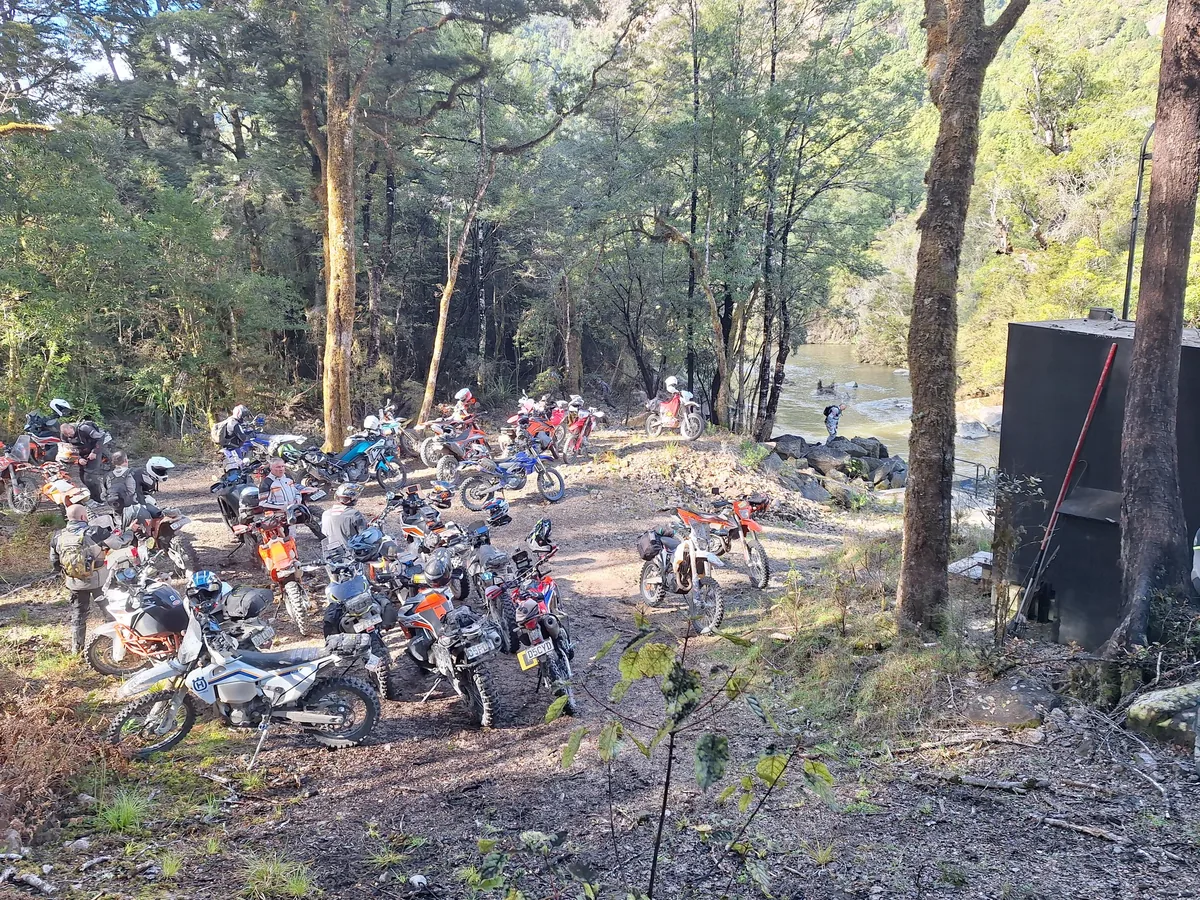
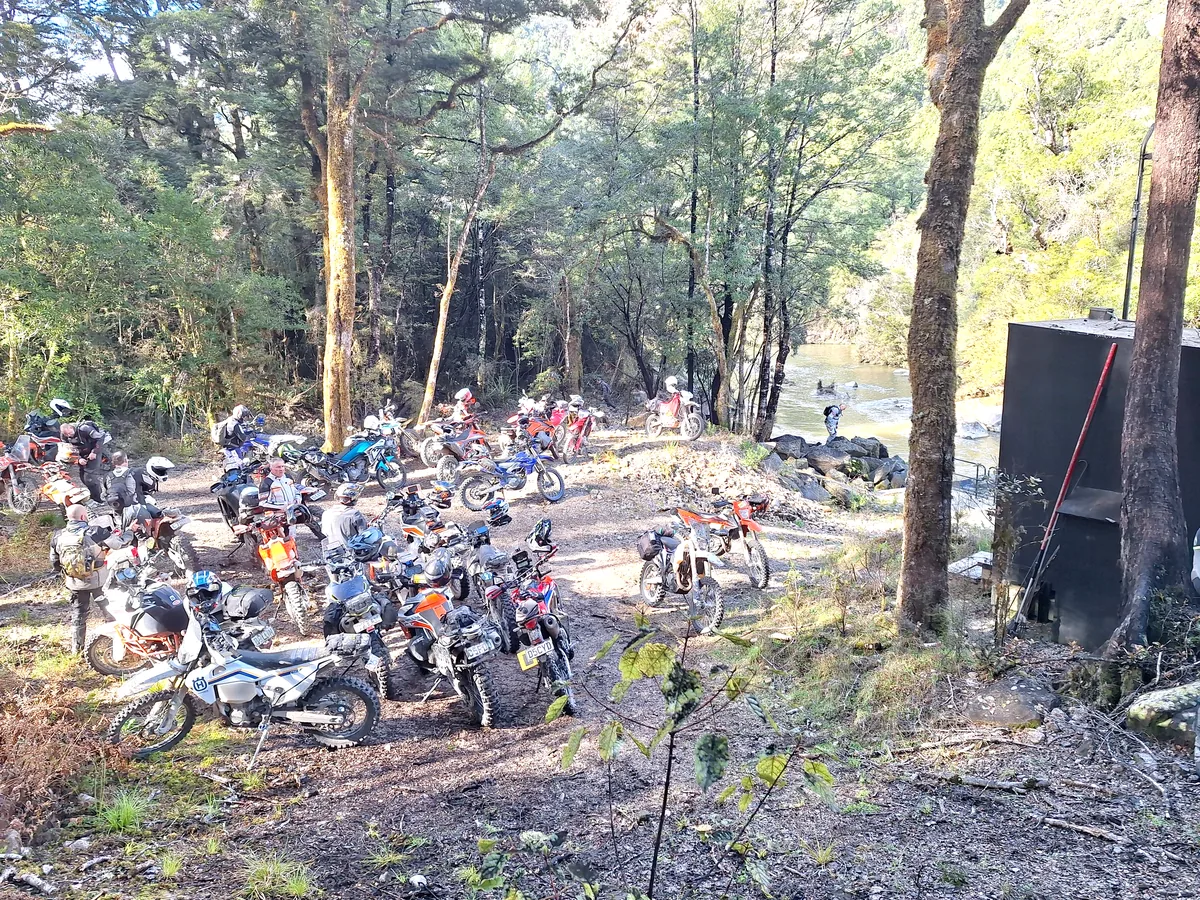
Design-review fixes: hero legibility, image recasting, focus states, CTA consistency

diff --git a/kohatu-netlify-deploy/index.html b/kohatu-netlify-deploy/index.html
@@ -58,7 +58,7 @@
       "eventStatus": "https://schema.org/EventScheduled",
       "eventAttendanceMode": "https://schema.org/OfflineEventAttendanceMode",
       "location": { "@type": "Place", "name": "French Pass, Marlborough Sounds", "address": { "@type": "PostalAddress", "addressCountry": "NZ" } },
-      "image": "img/sounds-like-1200.webp",
+      "image": "img/gallery-jetty-800.webp",
       "description": "Two days on private farm tracks and gravel across three large outer-Sounds farms, overnighting at the French Pass hall.",
       "organizer": { "@id": "#org" },
       "offers": { "@type": "Offer", "price": "295", "priceCurrency": "NZD", "availability": "https://schema.org/PreOrder", "url": "./#rides" }
@@ -162,7 +162,7 @@
   <div class="wrap">
     <b>Next up</b>
     <span>The Five Year Plan — Year 1 · Cape Reinga through Northland · August 2026</span>
-    <a href="#ride-list">Register interest &rarr;</a>
+    <a href="#ride-list">Join the ride list &rarr;</a>
   </div>
 </div>
 
@@ -198,7 +198,7 @@
           <p>Ride the length of New Zealand over five years, starting at Cape Reinga. Six days of Northland's off-road tracks, private land and scenic trails — with accommodation, dinners and a luggage van doing the heavy lifting.</p>
           <div class="event-foot">
             <span class="price">$2,990<small>per year</small></span>
-            <a class="btn btn-line" href="#ride-list">Join the list</a>
+            <a class="btn btn-line" href="#ride-list">Join the ride list</a>
           </div>
         </div>
       </article>
@@ -224,7 +224,7 @@
 
       <article class="event-card reveal" data-cat="multi">
         <div class="event-media">
-          <img src="img/sounds-like-800.webp" srcset="img/sounds-like-480.webp 480w, img/sounds-like-800.webp 800w, img/sounds-like-1200.webp 1200w" sizes="(max-width: 700px) 92vw, 380px" loading="lazy" width="800" height="450" alt="Still river reach flanked by native forest hills under a blue sky">
+          <img src="img/gallery-jetty-800.webp" srcset="img/gallery-jetty-480.webp 480w, img/gallery-jetty-800.webp 800w" sizes="(max-width: 700px) 92vw, 380px" loading="lazy" width="800" height="450" alt="Rider's view from a jetty over the water, snow-capped ranges beyond">
           <div class="flags">
             <span class="badge badge-soon">February 2027</span>
             <a class="badge" href="#grades"><span class="dot" style="background:var(--g3)"></span>Grade 3</a>
@@ -236,7 +236,7 @@
           <p>Private farm tracks across three big outer-Sounds stations including Te Kuta and Port Ligar. Overnight at the French Pass hall — dinner and breakfast put on by locals, with proceeds supporting the community.</p>
           <div class="event-foot">
             <span class="price">$295<small>hall stay + meals included</small></span>
-            <a class="btn btn-line" href="#ride-list">Join the list</a>
+            <a class="btn btn-line" href="#ride-list">Join the ride list</a>
           </div>
         </div>
       </article>
@@ -255,7 +255,7 @@
           <p>Adventure bikes ride both days, road bikes join a treasure hunt — then everyone rolls into Founders for vendors, food trucks and displays. Raising funds for Nelson Tasman Search &amp; Rescue.</p>
           <div class="event-foot">
             <span class="price">$45–$350<small>road / adventure entry</small></span>
-            <a class="btn btn-line" href="#ride-list">Join the list</a>
+            <a class="btn btn-line" href="#ride-list">Join the ride list</a>
           </div>
         </div>
       </article>
@@ -274,7 +274,7 @@
           <p>Adventure courses over parks, forestry and private land not normally open to riders, plus a Saturday poker run ending with brews, food trucks and static displays at Brewtown.</p>
           <div class="event-foot">
             <span class="price">$45–$350<small>road / adventure entry</small></span>
-            <a class="btn btn-line" href="#ride-list">Join the list</a>
+            <a class="btn btn-line" href="#ride-list">Join the ride list</a>
           </div>
         </div>
       </article>
@@ -293,7 +293,7 @@
           <p>Lake Matiri with a tractor. Anything Mechanical. Tempello. Rainey River. One-day adventures over farms and back roads you can't normally touch — GPX issued before every ride, sweeps and medical support on every one.</p>
           <div class="event-foot">
             <span class="price">From $100<small>per rider, per ride</small></span>
-            <a class="btn btn-line" href="#ride-list">Get ride alerts</a>
+            <a class="btn btn-line" href="#ride-list">Join the ride list</a>
           </div>
         </div>
       </article>
@@ -388,7 +388,7 @@
 <section id="trail-rides" class="why">
   <div class="wrap split">
     <div class="split-media reveal">
-      <img src="img/trail-rides-800.webp" srcset="img/trail-rides-480.webp 480w, img/trail-rides-800.webp 800w, img/trail-rides-1200.webp 1200w" sizes="(max-width: 860px) 92vw, 45vw" loading="lazy" width="800" height="533" alt="Rider catching air on a red Honda CRF over a grass mound">
+      <img src="img/gallery-gate-800.webp" srcset="img/gallery-gate-480.webp 480w, img/gallery-gate-800.webp 800w" sizes="(max-width: 860px) 92vw, 45vw" loading="lazy" width="800" height="600" alt="Rider on a KTM coming through a farm gate on a forest trail">
     </div>
     <div>
       <span class="kicker">No rego? No worries</span>
@@ -399,7 +399,7 @@
         <li><b>Marshals, recovery and first aid</b> on site all day</li>
         <li><b>$80 per rider</b> — pre-entry essential, numbers are limited</li>
       </ul>
-      <a class="btn btn-red" href="#ride-list">Register interest</a>
+      <a class="btn btn-red" href="#ride-list">Join the ride list</a>
     </div>
   </div>
 </section>
@@ -417,7 +417,7 @@
           <div class="price-card"><b>$10</b><span>Under 15</span></div>
           <div class="price-card"><b>$40</b><span>Family pass</span></div>
         </div>
-        <p style="color:var(--muted); font-size:.95rem">Open days 11am–4pm (check Facebook for dates) · Cash only at the gate · Groups of 6+ can book any day.</p>
+        <p style="color:var(--muted); font-size:.95rem">Open days 11am–4pm (check <a href="https://www.facebook.com/kohatumotorcyclecentre" style="color:var(--red)">Facebook</a> for dates) · Cash only at the gate · Groups of 6+ can book any day.</p>
       </div>
       <div class="split-media reveal">
         <img src="img/park-aerial-800.webp" srcset="img/park-aerial-480.webp 480w, img/park-aerial-800.webp 800w, img/park-aerial-1200.webp 1200w" sizes="(max-width: 860px) 92vw, 45vw" loading="lazy" width="800" height="450" alt="Aerial view of the Kohatu training ground with mowed trail loops beside pine forest">
@@ -459,8 +459,8 @@
       <a href="https://www.facebook.com/kohatumotorcyclecentre" aria-label="See more photos on Facebook"><img src="img/gallery-mud-480.webp" srcset="img/gallery-mud-480.webp 480w, img/gallery-mud-800.webp 800w" sizes="(max-width:700px) 46vw, 370px" loading="lazy" width="480" height="640" alt="Grinning rider covered head to toe in mud beside his adventure bike"></a>
       <a href="https://www.facebook.com/kohatumotorcyclecentre" aria-label="See more photos on Facebook"><img src="img/gallery-wheelie-480.webp" srcset="img/gallery-wheelie-480.webp 480w, img/gallery-wheelie-800.webp 800w" sizes="(max-width:700px) 46vw, 370px" loading="lazy" width="480" height="320" alt="Rider wheelying a red Honda across a daisy-covered paddock"></a>
       <a href="https://www.facebook.com/kohatumotorcyclecentre" aria-label="See more photos on Facebook"><img src="img/gallery-tractor-480.webp" srcset="img/gallery-tractor-480.webp 480w, img/gallery-tractor-752.webp 752w" sizes="(max-width:700px) 46vw, 370px" loading="lazy" width="480" height="651" alt="View from a bike being towed across a river behind a muddy tractor"></a>
-      <a href="https://www.facebook.com/kohatumotorcyclecentre" aria-label="See more photos on Facebook"><img src="img/gallery-gate-480.webp" srcset="img/gallery-gate-480.webp 480w, img/gallery-gate-800.webp 800w" sizes="(max-width:700px) 46vw, 370px" loading="lazy" width="480" height="360" alt="Rider on a KTM coming through a farm gate on a forest trail"></a>
-      <a href="https://www.facebook.com/kohatumotorcyclecentre" aria-label="See more photos on Facebook"><img src="img/gallery-jetty-480.webp" srcset="img/gallery-jetty-480.webp 480w, img/gallery-jetty-800.webp 800w" sizes="(max-width:700px) 46vw, 370px" loading="lazy" width="480" height="270" alt="Rider's selfie at a lake jetty with snow-capped ranges behind"></a>
+      <a href="https://www.facebook.com/kohatumotorcyclecentre" aria-label="See more photos on Facebook"><img src="img/trail-rides-480.webp" srcset="img/trail-rides-480.webp 480w, img/trail-rides-800.webp 800w" sizes="(max-width:700px) 46vw, 370px" loading="lazy" width="480" height="320" alt="Rider catching air on a red Honda over a grass mound"></a>
+      <a href="https://www.facebook.com/kohatumotorcyclecentre" aria-label="See more photos on Facebook"><img src="img/sounds-like-480.webp" srcset="img/sounds-like-480.webp 480w, img/sounds-like-800.webp 800w" sizes="(max-width:700px) 46vw, 370px" loading="lazy" width="480" height="270" alt="Still river reach flanked by native forest hills under a blue sky"></a>
       <a href="https://www.facebook.com/kohatumotorcyclecentre" aria-label="See more photos on Facebook"><img src="img/gallery-air-480.webp" srcset="img/gallery-air-480.webp 480w, img/gallery-air-800.webp 800w" sizes="(max-width:700px) 46vw, 370px" loading="lazy" width="480" height="1084" alt="Adventure bike fully airborne over grass under a dramatic sky"></a>
     </div>
     <p style="margin-top:1.5rem"><a class="btn btn-ghost" href="https://www.facebook.com/kohatumotorcyclecentre">More on Facebook &rarr;</a></p>
@@ -501,6 +501,18 @@
       <div>
         <label for="f-email">Email</label>
         <input id="f-email" name="email" type="email" autocomplete="email" required>
+      </div>
+      <div>
+        <label for="f-ride">Which rides are you keen on?</label>
+        <select id="f-ride" name="ride">
+          <option>All rides</option>
+          <option>The Five Year Plan</option>
+          <option>Sounds Like</option>
+          <option>The Clarence</option>
+          <option>The festivals</option>
+          <option>Summer Ride Series</option>
+          <option>Trail rides (no rego)</option>
+        </select>
       </div>
       <button class="btn btn-red" type="submit">Join the ride list</button>
       <p class="form-note">We only email about rides and entries. Unsubscribe anytime.</p>

diff --git a/kohatu-netlify-deploy/styles.css b/kohatu-netlify-deploy/styles.css
@@ -80,6 +80,7 @@ img { max-width: 100%; display: block; }
 .skip-link:focus { left: 0; }
 
 :focus-visible { outline: 3px solid var(--red); outline-offset: 2px; }
+.next-band :focus-visible { outline-color: var(--ink-on-red); }
 
 .wrap { max-width: var(--wrap); margin: 0 auto; padding: 0 clamp(1.1rem, 4vw, 2rem); }
 
@@ -91,6 +92,7 @@ h1, h2, h3, .display {
   line-height: 1.04;
 }
 
+h1, h2, h3 { text-wrap: balance; }
 h2 { font-size: clamp(2.1rem, 5vw, 3.1rem); }
 h3 { font-size: clamp(1.35rem, 3vw, 1.7rem); }
 
@@ -133,7 +135,7 @@ section { padding: clamp(3.5rem, 8vw, 6rem) 0; position: relative; }
   color: var(--text); text-decoration: none; font-size: .95rem; font-weight: 600;
   padding: .35rem 0; border-bottom: 2px solid transparent;
 }
-.nav-links a:hover { color: var(--red); }
+.nav-links a:hover { color: var(--red); border-bottom-color: var(--red); }
 .nav-toggle {
   display: none; background: none; border: 1px solid var(--line); color: var(--text);
   border-radius: 8px; padding: .5rem .7rem; font-size: 1.15rem; cursor: pointer;
@@ -171,7 +173,7 @@ section { padding: clamp(3.5rem, 8vw, 6rem) 0; position: relative; }
 
 /* ---------- hero ---------- */
 .hero {
-  position: relative; min-height: min(94vh, 900px); display: flex; align-items: flex-end;
+  position: relative; min-height: min(94vh, 900px); min-height: min(94svh, 900px); display: flex; align-items: flex-end;
   padding: 120px 0 clamp(2.5rem, 6vw, 5rem);
   isolation: isolate;
 }
@@ -180,13 +182,14 @@ section { padding: clamp(3.5rem, 8vw, 6rem) 0; position: relative; }
 .hero::after {
   content: ''; position: absolute; inset: 0; z-index: -1;
   background:
-    linear-gradient(180deg, rgba(13,15,14,.55) 0%, rgba(13,15,14,.1) 35%, rgba(13,15,14,.82) 82%, var(--bg) 100%);
+    linear-gradient(180deg, rgba(13,15,14,.55) 0%, rgba(13,15,14,.42) 40%, rgba(13,15,14,.85) 82%, var(--bg) 100%);
 }
 .hero h1 {
   font-size: clamp(2.9rem, 8.5vw, 5.6rem);
   max-width: 13ch;
   text-wrap: balance;
 }
+.hero .kicker, .hero h1 { text-shadow: 0 1px 3px rgba(13,15,14,.9), 0 2px 16px rgba(13,15,14,.7); }
 .hero h1 em { font-style: normal; color: var(--red); }
 .hero-sub { max-width: 34rem; margin: 1.2rem 0 1.8rem; font-size: 1.15rem; color: #d9dcd7; }
 .hero-ctas { display: flex; gap: .9rem; flex-wrap: wrap; }
@@ -197,8 +200,8 @@ section { padding: clamp(3.5rem, 8vw, 6rem) 0; position: relative; }
   padding: 1rem 0;
 }
 .trust ul {
-  list-style: none; display: flex; flex-wrap: wrap; gap: .4rem 2.4rem;
-  justify-content: space-between;
+  list-style: none; display: flex; flex-wrap: wrap; gap: .5rem 2.8rem;
+  justify-content: center;
 }
 .trust li {
   font-family: var(--display); font-weight: 600; text-transform: uppercase;
@@ -249,6 +252,7 @@ section { padding: clamp(3.5rem, 8vw, 6rem) 0; position: relative; }
 .event-meta {
   font-family: var(--display); font-weight: 600; text-transform: uppercase;
   letter-spacing: .1em; font-size: .98rem; color: var(--red);
+  text-wrap: balance;
 }
 .event-body h3 a { color: inherit; text-decoration: none; }
 .event-body h3 a:hover { color: var(--red); }
@@ -322,6 +326,7 @@ details .a a { color: var(--red); }
 .gal a { border-radius: 10px; overflow: hidden; display: block; border: 1px solid var(--line); }
 .gal img { width: 100%; height: 100%; object-fit: cover; aspect-ratio: 4 / 3; transition: transform .5s; }
 .gal a:hover img { transform: scale(1.05); }
+.gal a:first-child img { object-position: 50% 12%; }
 @media (max-width: 700px) { .gal { grid-template-columns: repeat(2, 1fr); } }
 
 /* ---------- capture ---------- */
@@ -330,11 +335,11 @@ details .a a { color: var(--red); }
 @media (max-width: 860px) { .capture-inner { grid-template-columns: 1fr; } }
 .capture form { display: grid; gap: .8rem; }
 .capture label { font-size: .9rem; font-weight: 600; }
-.capture input {
+.capture input, .capture select {
   width: 100%; background: var(--bg); color: var(--text); border: 1px solid var(--line);
   border-radius: 10px; padding: .9rem 1rem; font: inherit;
 }
-.capture input:focus { border-color: var(--red); outline: none; }
+.capture input:focus, .capture select:focus { border-color: var(--red); outline: none; box-shadow: 0 0 0 3px rgba(240, 78, 62, .35); }
 .form-note { font-size: .85rem; color: var(--muted); }
 
 /* ---------- footer ---------- */
